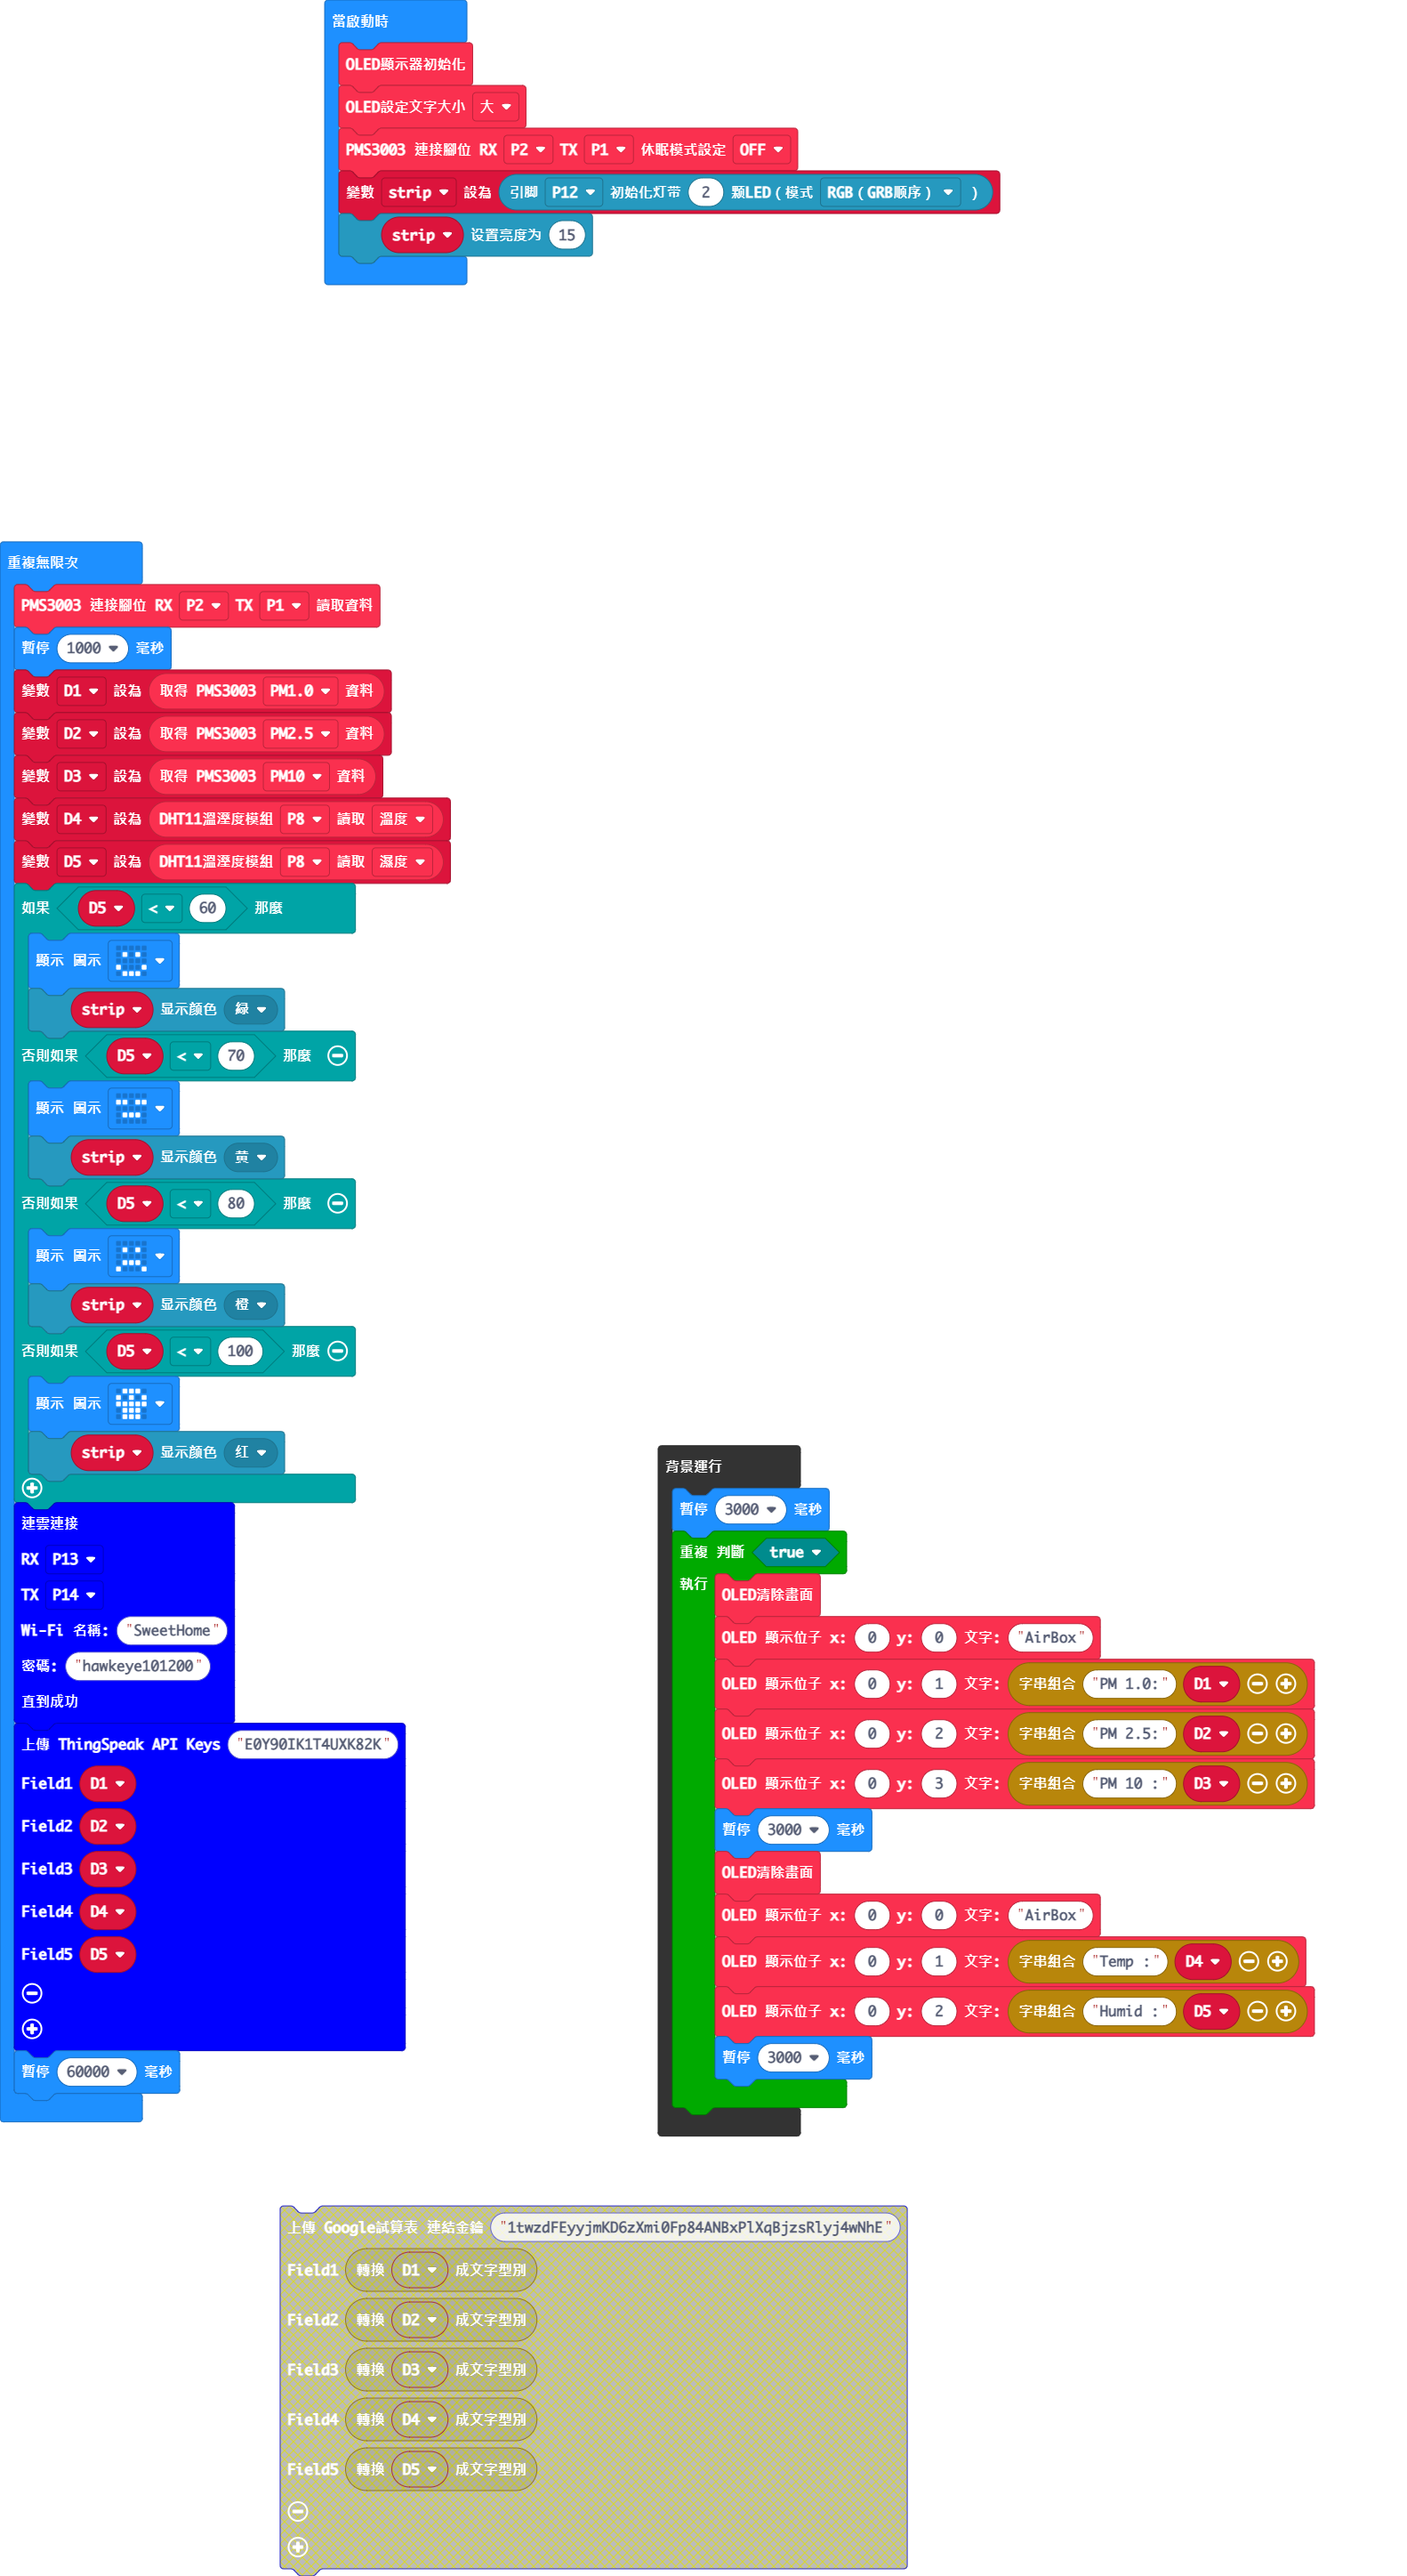
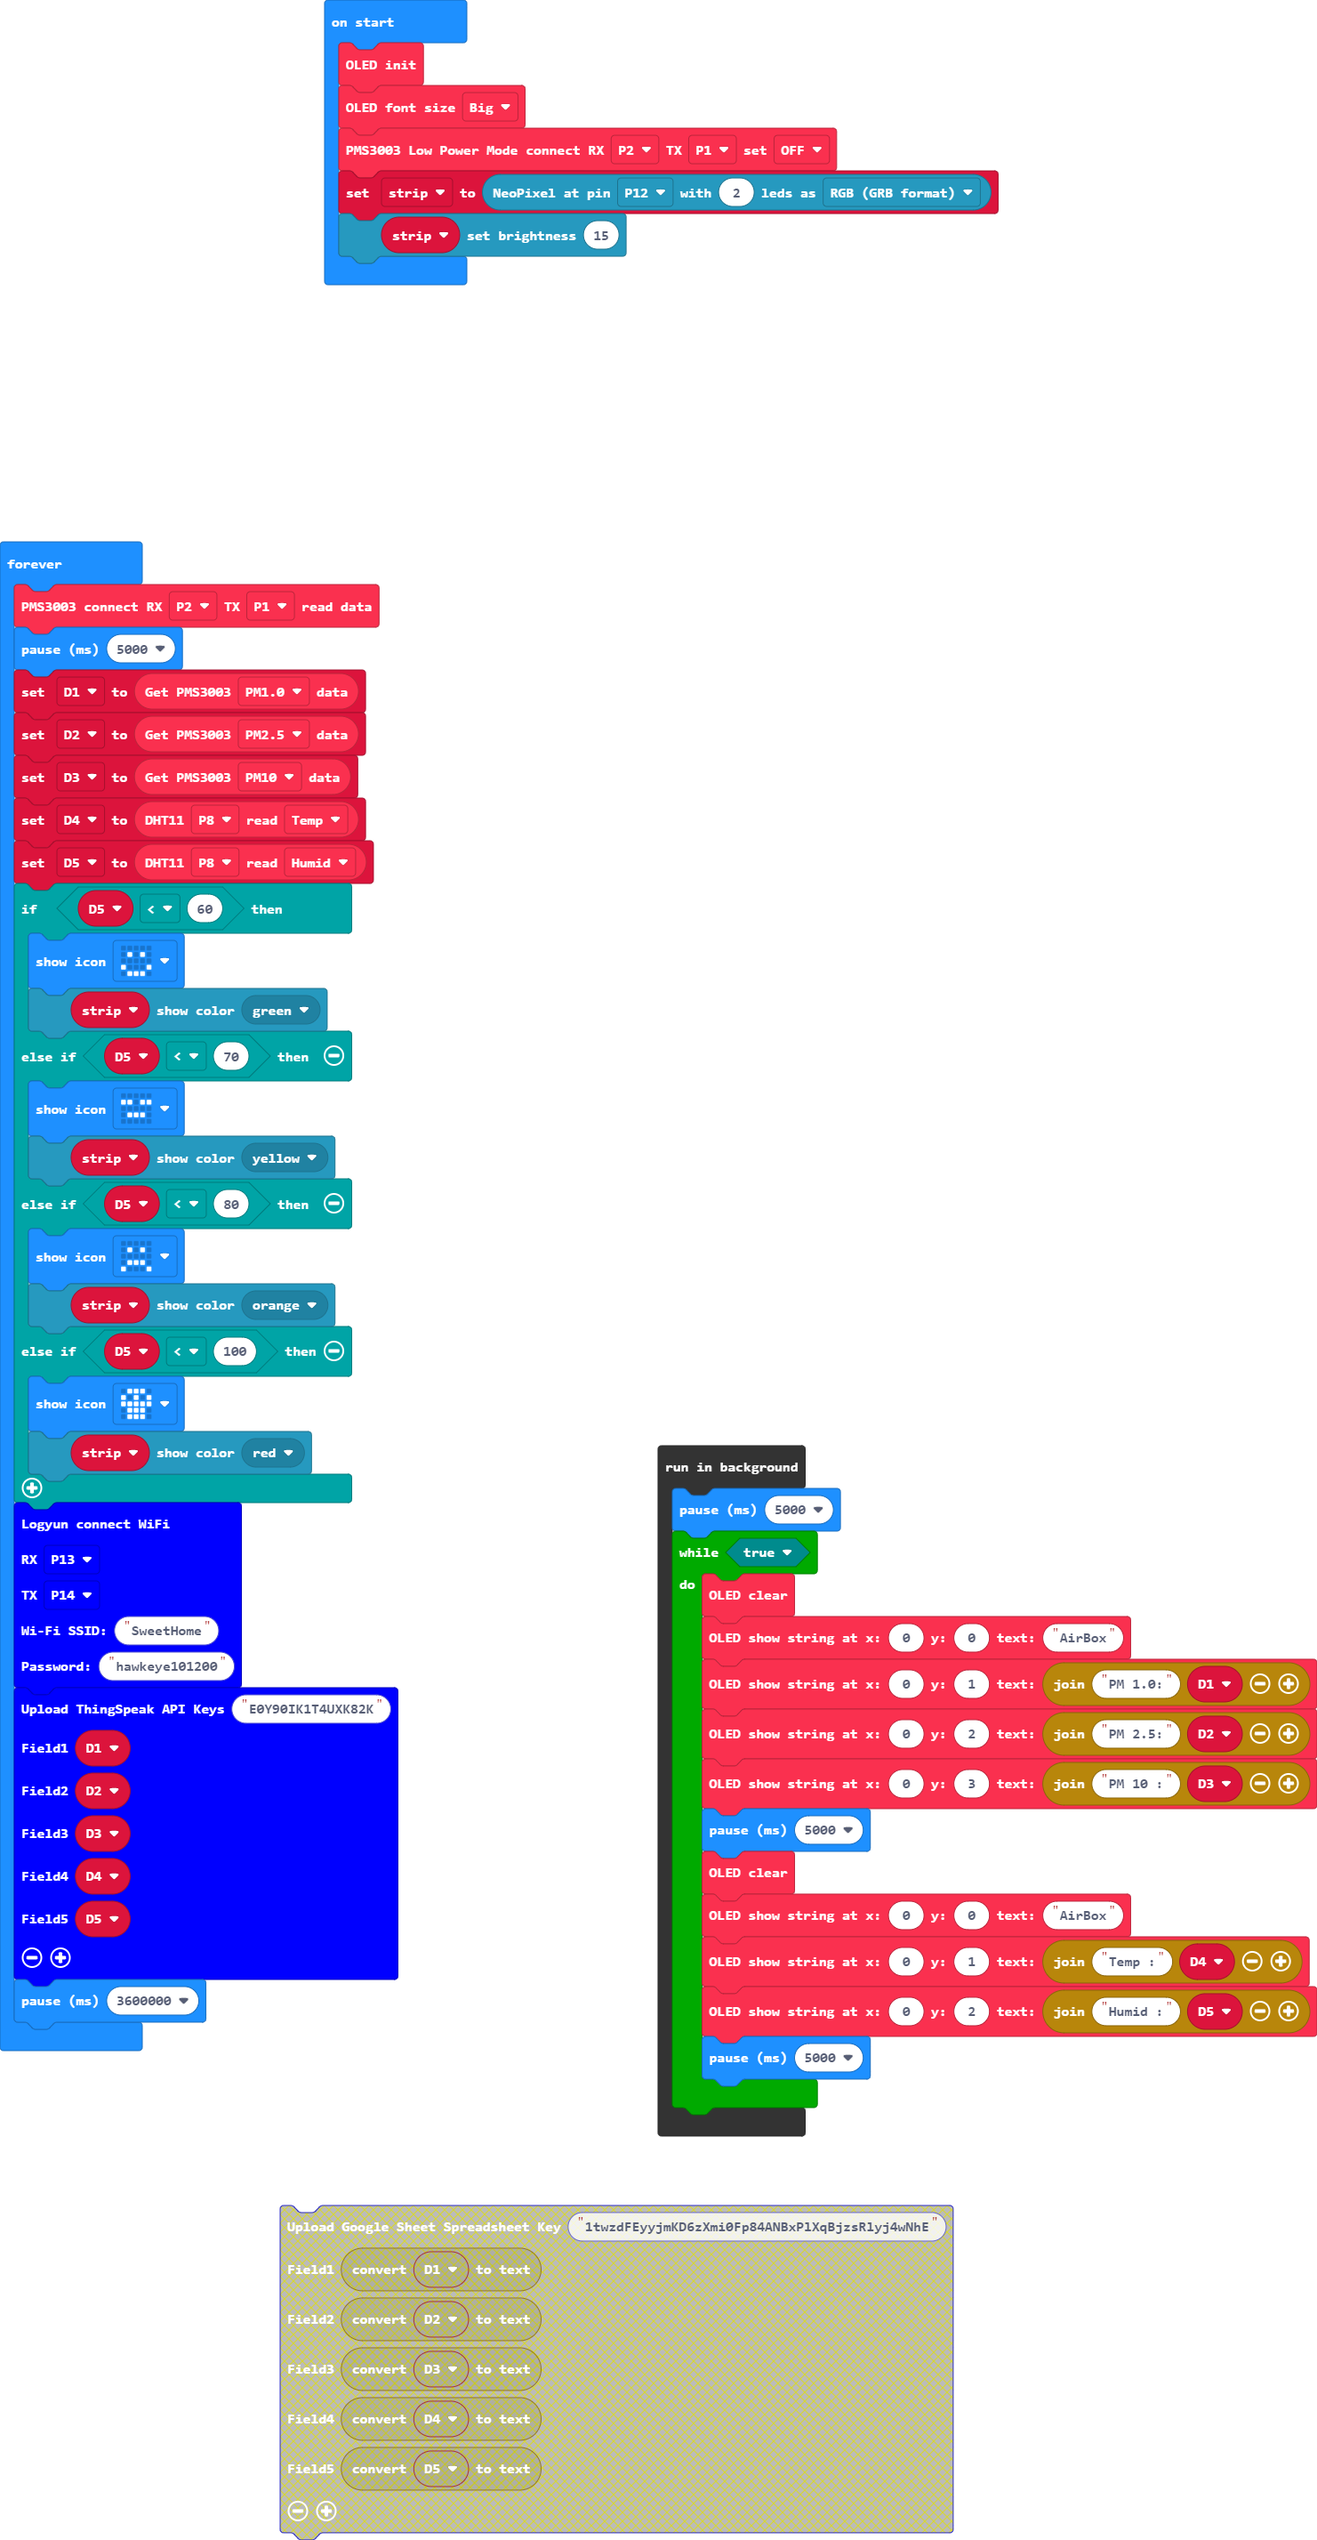
Update pxt.json, main.blocks, main.ts

Changed region(s): [[0.1864, 0.5611, 1.0, 1.0], [0.0, 0.187, 0.3417, 0.8417], [0.2174, 0.0, 0.7765, 0.1247]]

diff --git a/main.ts b/main.ts
@@ -10,7 +10,7 @@ let strip = neopixel.create(DigitalPin.P12, 2, NeoPixelMode.RGB)
 strip.setBrightness(15)
 basic.forever(function () {
     mbitbot_airbox.get_pms3003(soft_serial.pms_serial_2, soft_serial.pms_serial_1)
-    basic.pause(1000)
+    basic.pause(5000)
     D1 = mbitbot_airbox.data_pms3003(PMS5003_data.data_1)
     D2 = mbitbot_airbox.data_pms3003(PMS5003_data.data_2)
     D3 = mbitbot_airbox.data_pms3003(PMS5003_data.data_3)
@@ -43,21 +43,21 @@ basic.forever(function () {
     D4,
     D5
     )
-    basic.pause(60000)
+    basic.pause(3600000)
 })
 control.inBackground(function () {
-    basic.pause(3000)
+    basic.pause(5000)
     while (true) {
         mbitbot_airbox.oled_clear()
         mbitbot_airbox.oled_showString(0, 0, "AirBox")
         mbitbot_airbox.oled_showString(0, 1, "PM 1.0:" + D1)
         mbitbot_airbox.oled_showString(0, 2, "PM 2.5:" + D2)
         mbitbot_airbox.oled_showString(0, 3, "PM 10 :" + D3)
-        basic.pause(3000)
+        basic.pause(5000)
         mbitbot_airbox.oled_clear()
         mbitbot_airbox.oled_showString(0, 0, "AirBox")
         mbitbot_airbox.oled_showString(0, 1, "Temp :" + D4)
         mbitbot_airbox.oled_showString(0, 2, "Humid :" + D5)
-        basic.pause(3000)
+        basic.pause(5000)
     }
 })
